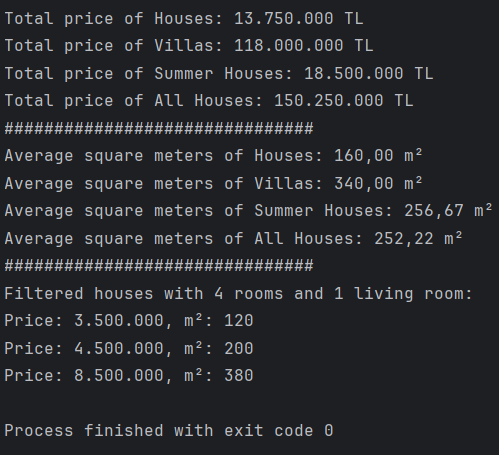
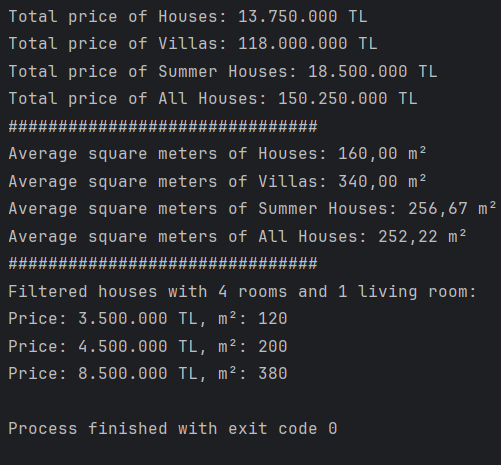
Update main class to print all service outputs

Changed region(s): [[0.0, 0.0, 0.992, 0.8615], [0.0, 0.8923, 0.6914, 0.9846]]

diff --git a/src/main/java/com/hasan/estateapp/Main.java b/src/main/java/com/hasan/estateapp/Main.java
@@ -31,6 +31,6 @@ public class Main {
 
         System.out.println("Filtered houses with 4 rooms and 1 living room:");
         service.filterHousesByRoomAndLivingRoom(3, 1)
-                .forEach(h -> System.out.println("Price: " + nf.format(h.getPrice()) + ", m²: " + h.getSquareMeters()));
+                .forEach(h -> System.out.println("Price: " + nf.format(h.getPrice()) +" TL" + ", m²: " + h.getSquareMeters()));
     }
 }
